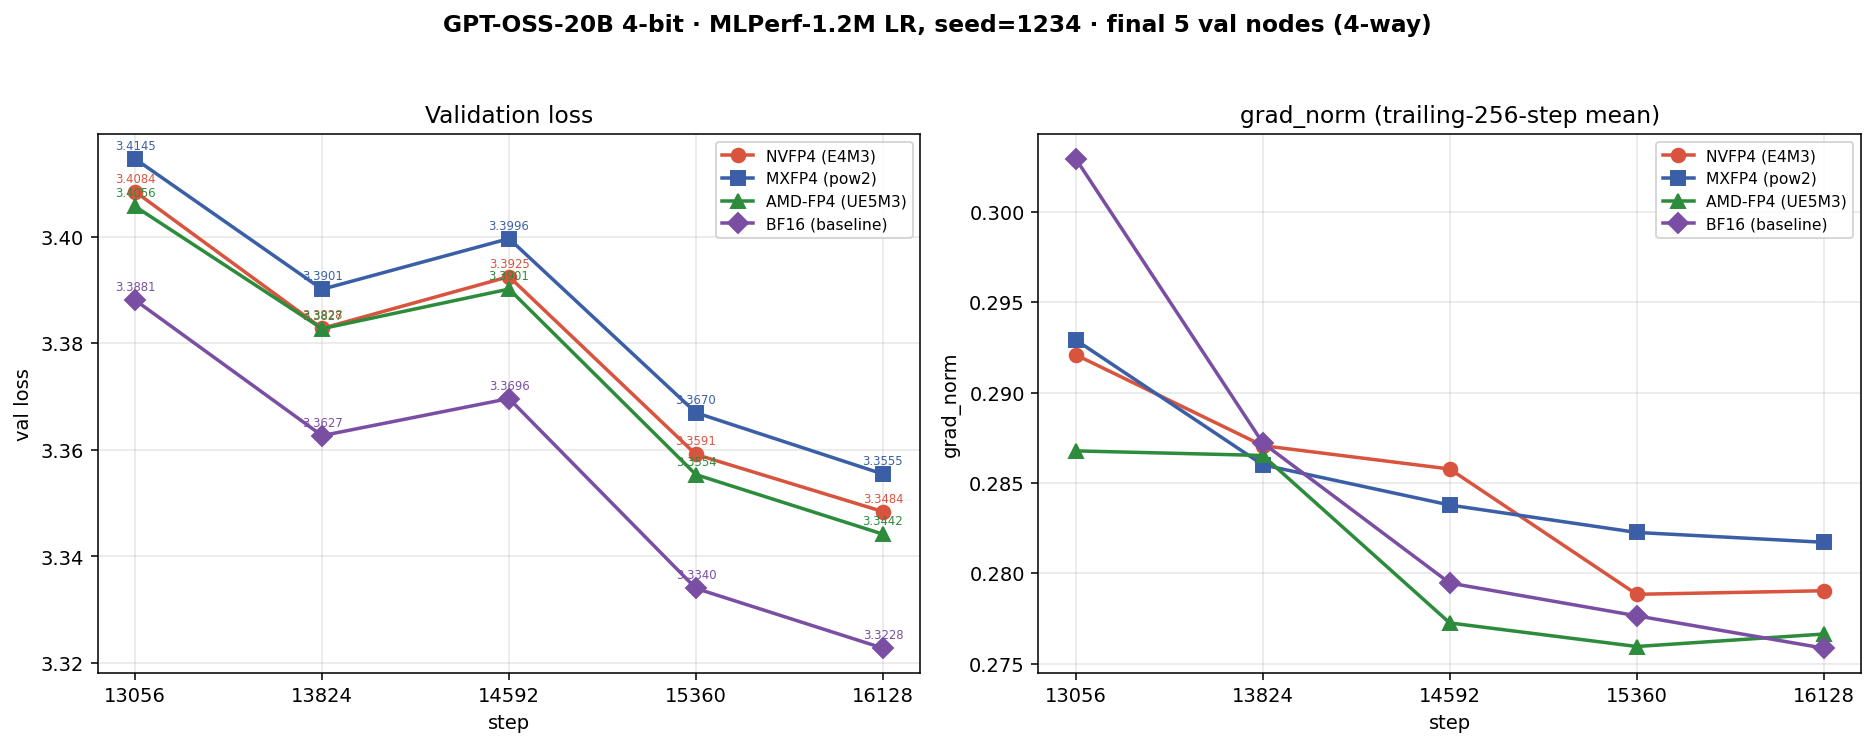
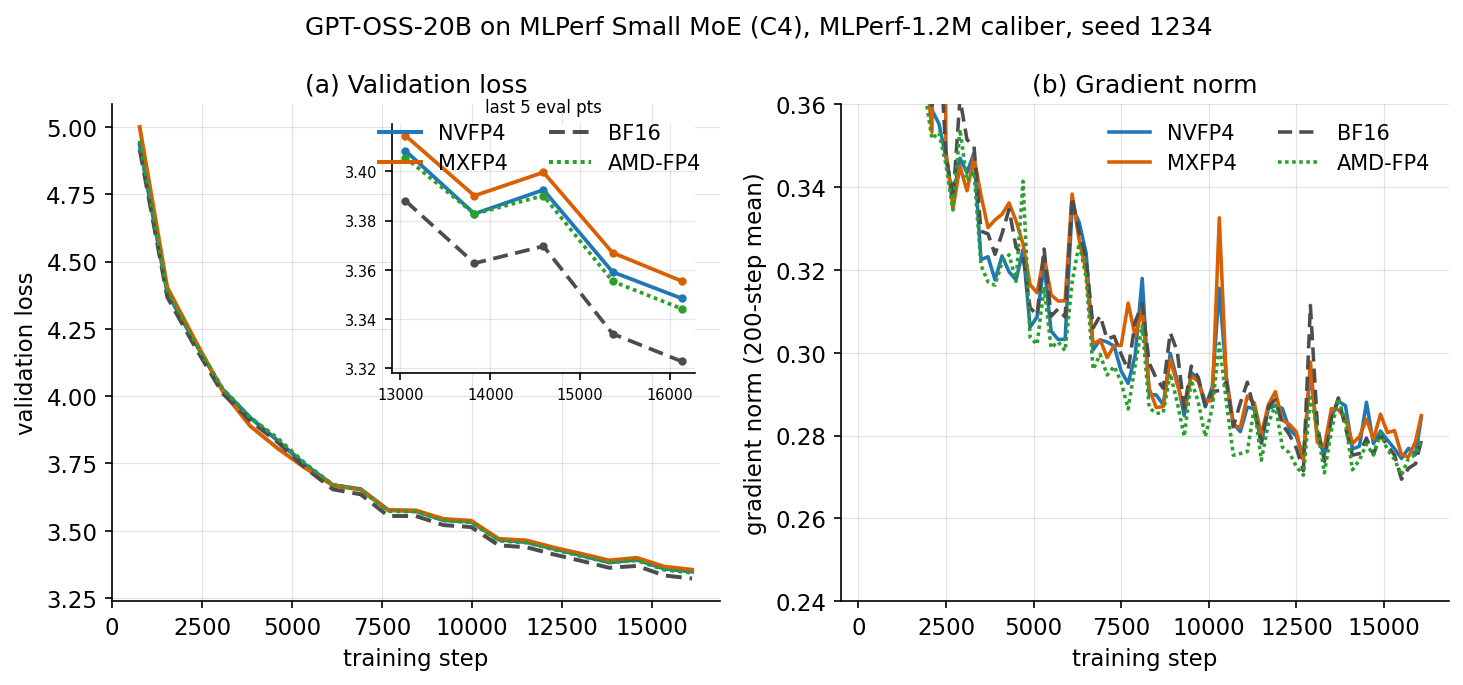
doc: refine nvfp4 report (redraw figures, align amd-fp4, redact internal specs)

diff --git a/tech_report/NVFP4/report.md b/tech_report/NVFP4/report.md
@@ -6,7 +6,7 @@
 
 ## Abstract
 
-Training large language models in 4-bit floating point promises large memory and compute savings, but the choice of FP4 microscaling format materially affects accuracy. We present an open-source training recipe ([ALTO](https://github.com/AMD-AGI/ALTO)) for **GPT-OSS-20B**—a 20-billion-parameter mixture-of-experts (MoE) model—on the **MLPerf Small MoE** benchmark under the **NVFP4** microscaling format. NVFP4 encodes values as E2M1 with a **two-level scale**: a fine-grained E4M3 scale per 16-element block, normalized by a per-tensor FP32 outer scale. Relative to MXFP4 (32-element blocks with a power-of-two UE8M0 scale), the finer block size and the higher-resolution two-level scale reduce quantization error. Our recipe composes hybrid 1D/2D block quantization, randomized Hadamard transforms (RHT), and stochastic rounding (SR) from [arXiv:2509.25149] with an optional weight de-oscillation scheme from TetraJet-v2 [arXiv:2510.27527]. A central engineering contribution is diagnosing and fixing a **per-tensor-scale (PTS) quantization-spec bug** whose scale floor caused NVFP4 gradient norms to explode by 100–1000× on multi-layer MoE training; the fix restores BF16-level gradient stability. On C4 validation with global batch size 16, NVFP4 reaches a validation loss of **3.3459 ± 0.0024** (3 seeds) at the 16,128-step slice, within **0.0195** of the BF16 baseline (**3.3264 ± 0.0031**) and consistently below MXFP4 (**3.3548 ± 0.0016**) on every seed. We report operator-level SNR against BF16 under both a synthetic injected-outlier protocol and a real-activation protocol, and we characterize the already-merged AMD-FP4 (UE5M3 inner scale) variant. All experiments use fake-quantized NVFP4 kernels; because current AMD hardware has no native NVFP4 MatrixCore path, execution is quantize–dequantize (QDQ) emulation and wall-clock speed is not optimized.
+Training large language models in 4-bit floating point promises large memory and compute savings, but the choice of FP4 microscaling format materially affects accuracy. We present an open-source training recipe ([ALTO](https://github.com/AMD-AGI/ALTO)) for **GPT-OSS-20B**—a 20-billion-parameter mixture-of-experts (MoE) model—on the **MLPerf Small MoE** benchmark under the **NVFP4** microscaling format. NVFP4 encodes values as E2M1 with a **two-level scale**: a fine-grained E4M3 scale per 16-element block, normalized by a per-tensor FP32 outer scale. Relative to MXFP4 (32-element blocks with a power-of-two UE8M0 scale), the finer block size and the higher-resolution two-level scale reduce quantization error. Our recipe composes hybrid 1D/2D block quantization, randomized Hadamard transforms (RHT), and stochastic rounding (SR) from [arXiv:2509.25149] with an optional weight de-oscillation scheme from TetraJet-v2 [arXiv:2510.27527]. A central engineering contribution is diagnosing and fixing a **per-tensor-scale (PTS) quantization-spec bug** whose scale floor caused NVFP4 gradient norms to explode by 100–1000× on multi-layer MoE training; the fix restores BF16-level gradient stability. On C4 validation with global batch size 16, NVFP4 reaches a validation loss of **3.3459 ± 0.0024** (3 seeds) at the 16,128-step slice, within **0.0195** of the BF16 baseline (**3.3264 ± 0.0031**) and consistently below MXFP4 (**3.3548 ± 0.0016**) on every seed. We report operator-level SNR against BF16 under both a synthetic injected-outlier protocol and a real-activation protocol, and we characterize the already-merged AMD-FP4 (UE5M3 inner scale) variant. All experiments use fake-quantized NVFP4 kernels; because the current native FP4 GEMM path does not support NVFP4's continuous scales, execution is quantize–dequantize (QDQ) emulation and wall-clock speed is not optimized.
 
 ---
 
@@ -14,14 +14,14 @@ Training large language models in 4-bit floating point promises large memory and
 
 Low-precision training has progressed from FP16 and BF16 to FP8 and, recently, 4-bit floating-point formats. Two 4-bit microscaling families are now prominent: the Open Compute Project (OCP) **MXFP4** format (32-element blocks, power-of-two UE8M0 block scale) and NVIDIA's **NVFP4** format (16-element blocks, an E4M3 block scale normalized by a per-tensor FP32 outer scale). Both encode elements as E2M1 (one sign, two exponent, one mantissa bit; magnitudes in $\{0,0.5,1,1.5,2,3,4,6\}$). For sparse MoE models such as GPT-OSS-20B, where expert matrices dominate compute and memory, 4-bit training could unlock disproportionate efficiency gains.
 
-The two formats trade off differently. MXFP4's UE8M0 scale is a pure power of two: cheap, hardware-friendly on CDNA4 (a native scaled MatrixCore GEMM exists), but coarse. NVFP4's two-level scale carries mantissa bits (E4M3) and a continuous per-tensor normalizer, giving finer resolution and better outlier absorption—at the cost that current AMD MatrixCore FP4 instructions honor only a power-of-two (biased-exponent) scale operand, so NVFP4 cannot use the native GEMM and must run as software QDQ emulation.
+The two formats trade off differently. MXFP4's UE8M0 scale is a pure power of two: cheap and directly consumable by a native power-of-two-scaled FP4 GEMM, but coarse. NVFP4's two-level scale carries mantissa bits (E4M3) and a continuous per-tensor normalizer, giving finer resolution and better outlier absorption—at the cost that the current native FP4 GEMM path supports only power-of-two scales, so NVFP4 cannot use it and must run as software QDQ emulation.
 
 | Property | MXFP4 | NVFP4 |
 |---|---|---|
 | Inner block size | 32 | **16** (finer) |
 | Inner (block) scale | E8M0 power-of-two (uint8) | **E4M3** (max 448), stored in FP32 |
 | Outer scale | none | **per-tensor FP32** (two-level scaling) |
-| CDNA4 native MatrixCore GEMM | yes | **no** — software QDQ emulation |
+| Native FP4 GEMM support | yes | **no** — software QDQ emulation |
 | Dominant error | resolution | resolution + dynamic range |
 
 This report describes ALTO's methodology for NVFP4 training on the MLPerf Small MoE task. Hybrid 1D/2D block quantization, RHT, and SR are adopted from [arXiv:2509.25149]; weight de-oscillation is adapted from TetraJet-v2 [arXiv:2510.27527]. Our contributions are: (i) a composable NVFP4 training recipe for MX-style MoE models implemented in a unified kernel and modifier stack; (ii) the diagnosis and fix of a PTS scale-floor bug that otherwise makes multi-layer NVFP4 MoE training diverge (Section 3.5); and (iii) a systematic NVFP4-vs-MXFP4 comparison at the operator level (synthetic and real data) and end-to-end (multi-seed, MLPerf-aligned). ALTO also supports replacing the E4M3 inner scale with the wider-range UE5M3 grid—the already-merged **AMD-FP4** variant—which we report as a reference point (Section 4.1). We state explicitly where the implementation remains a research prototype rather than a performance-optimized production system.
@@ -90,7 +90,7 @@ $$
 
 where $6$ is the largest E2M1 magnitude and $\varepsilon_{\mathrm{E4M3}}$ is the smallest E4M3 normal. The outer scale is floored at $10^{-30}$ purely as a divide-by-zero guard (Section 3.5 explains why this floor, not the E4M3 floor, is the correct one).
 
-As illustrated in Figure 1, each linear layer has three underlying GEMMs: a forward GEMM producing $\mathbf{O}$, and backward GEMMs producing $\mathrm{d}\mathbf{X}$ and $\mathrm{d}\mathbf{W}$. Because current AMD MatrixCore FP4 instructions accept only power-of-two scale operands, NVFP4 cannot use them; ALTO performs **fake quantization**—operands are quantized to NVFP4 and immediately dequantized to BF16 before a standard high-precision GEMM (`BF16 → quant → FP4 → dequant → BF16 → GEMM`)—faithfully reproducing FP4 numerical error without realizing memory-bandwidth savings (Section 6).
+As illustrated in Figure 1, each linear layer has three underlying GEMMs: a forward GEMM producing $\mathbf{O}$, and backward GEMMs producing $\mathrm{d}\mathbf{X}$ and $\mathrm{d}\mathbf{W}$. Because the current native FP4 GEMM path accepts only power-of-two scales, NVFP4 cannot use it; ALTO performs **fake quantization**—operands are quantized to NVFP4 and immediately dequantized to BF16 before a standard high-precision GEMM (`BF16 → quant → FP4 → dequant → BF16 → GEMM`)—faithfully reproducing FP4 numerical error without realizing memory-bandwidth savings (Section 6).
 
 **Figure 1.** NVFP4 two-level-scale compute flow across the three GEMMs (forward + backward).
 
@@ -138,7 +138,7 @@ Master weights near a quantization bin boundary can oscillate—$Q(w)$ flips bet
 
 ### 4.1 AMD-FP4 (UE5M3 Inner Scale)
 
-ALTO's NVFP4 kernel supports swapping the E4M3 inner scale for **UE5M3** (unsigned E5M3, max normal 114688, ~256× wider dynamic range), selected by `scheme: "amdfp4"`; every other recipe field is identical and the two schemes share 100% of the kernel and autograd code. The wider inner-scale range directly mitigates NVFP4's dynamic-range pressure in the *plain* (no-outer-scale) operator regime; once the two-level outer scale is enabled (the production default), AMD-FP4 and NVFP4 converge in operator SNR and end-to-end loss (AMD-FP4 is marginally ahead; Sections 5.1–5.2). We report AMD-FP4 as a merged variant and reference point, not as a separate main line.
+AMD-FP4 is a peer FP4 recipe (merged into ALTO's `main`) that reuses NVFP4's block-quant and GEMM kernels but replaces the E4M3 inner-block scale with **UE5M3** (unsigned E5M3, max normal 114688, ~256× wider dynamic range). It is selected by `scheme: "amdfp4"`; the scheme alone determines the inner-scale grid (NVFP4 → E4M3, AMD-FP4 → UE5M3), and every other recipe field is identical. The wider inner-scale range directly mitigates NVFP4's dynamic-range pressure in the *plain* (no-outer-scale) operator regime; once the two-level outer scale is enabled (the production default), AMD-FP4 and NVFP4 converge in operator SNR and end-to-end loss (AMD-FP4 is marginally ahead; Sections 5.1–5.2). We report AMD-FP4 as a merged variant and reference point, not as a separate main line.
 
 ### 4.2 Exploratory Directions (Not Released)
 
@@ -218,9 +218,9 @@ At the 16k-step slice the learning rate has not decayed, so none of the formats 
 
 ### 5.3 Weight De-Oscillation Effect
 
-Figure 4 shows the end-to-end effect of the de-oscillation hook at MLPerf caliber, demonstrated on the AMD-FP4 variant (on vs off). De-oscillation acts as a late-training stabilizer consistent with its design; a native-NVFP4 end-to-end on/off remains to be run (Section 6). The exploratory directions of Section 4.2 (outer-block, 4/6) are essentially neutral on validation loss at this scale.
+Figure 4 shows the end-to-end effect of the de-oscillation hook at MLPerf caliber, demonstrated on the AMD-FP4 variant (on vs off, with BF16 for reference). De-oscillation (`deosc_step`/`deosc_period`/`deosc_ratio` = 2000/200/4.0) is a strong late-training stabilizer: it lowers the AMD-FP4 endpoint from 3.3442 to **3.3241** at 16,128 steps, shrinking the gap to the BF16 baseline (3.3228) from +0.0214 to **+0.0013**—essentially matching full precision. A native-NVFP4 on/off pair at this exact caliber remains to be run (Section 6). The exploratory directions of Section 4.2 (outer-block, 4/6) are essentially neutral on validation loss at this scale.
 
-**Figure 4.** De-oscillation on vs off (AMD-FP4 variant, MLPerf caliber, last five eval points).
+**Figure 4.** De-oscillation on the AMD-FP4 variant (on vs off, BF16 reference); MLPerf-1.2M caliber, last five eval points.
 
 <p align="center">
   <img src="./figures/amdfp4_deosc_vs_base_val_loss_final_last5.png" alt="De-oscillation on vs off, last 5 eval points" style="width:50%;height:auto;" />
@@ -243,7 +243,7 @@ NVFP4 runs at roughly 1/1.8 of BF16 throughput and ~20% below MXFP4, because the
 
 ## 6. Limitations
 
-**Fake-quantized execution with no native NVFP4 GEMM.** Because CDNA4 FP4 MatrixCore instructions honor only a power-of-two scale operand, NVFP4 cannot use them and runs entirely as QDQ emulation with BF16 GEMMs—a stricter constraint than MXFP4, which does have a native path. All accuracy results characterize the algorithmic robustness of the format, not the behavior or speed of a fused FP4 hardware stack.
+**Fake-quantized execution with no native NVFP4 GEMM.** The current native FP4 GEMM path supports only power-of-two scales, so NVFP4—whose scales are continuous—cannot use it and runs entirely as QDQ emulation with BF16 GEMMs, a stricter constraint than MXFP4, which does have a native path. All accuracy results characterize the algorithmic robustness of the format, not the behavior or speed of a fused FP4 hardware stack.
 
 **16k-step slice, limited seeds.** Results are the first 16,128 steps of the 1.2M-step schedule; the learning rate has not decayed, so absolute losses are not converged values and the 3.34 MLPerf target is not expected to be reached at this slice. Multi-seed coverage is three seeds for BF16/NVFP4/MXFP4 and two for AMD-FP4.
 
@@ -253,7 +253,7 @@ NVFP4 runs at roughly 1/1.8 of BF16 throughput and ~20% below MXFP4, because the
 
 ## 7. Conclusion
 
-We described an ALTO recipe for training GPT-OSS-20B under NVFP4 on the MLPerf Small MoE benchmark. NVFP4's two-level microscaling—an E4M3 scale per 16-element block, normalized by a per-tensor FP32 outer scale—combined with hybrid 1D/2D blocking, RHT, and SR, trains stably once the PTS scale-floor spec bug is fixed, and converges closer to BF16 than MXFP4: at the 16,128-step MLPerf-aligned slice, NVFP4 reaches 3.3459 ± 0.0024 versus 3.3264 ± 0.0031 for BF16 (+0.0195) and beats MXFP4 (3.3548 ± 0.0016) on every seed. Operator-level SNR, on both synthetic injected-outlier and real-activation data, attributes NVFP4's advantage to its finer block and higher-resolution two-level scale, most decisively on weight gradients. The already-merged AMD-FP4 (UE5M3) variant matches NVFP4 once the outer scale is present. Future work will fuse quantization and transforms into a single kernel pipeline, enable FP4 dispatch under expert parallelism, target native FP4 hardware, and pursue an audited MLPerf Training submission.
+We described an ALTO recipe for training GPT-OSS-20B under NVFP4 on the MLPerf Small MoE benchmark. NVFP4's two-level microscaling—an E4M3 scale per 16-element block, normalized by a per-tensor FP32 outer scale—combined with hybrid 1D/2D blocking, RHT, and SR, trains stably once the PTS scale-floor spec bug is fixed, and converges closer to BF16 than MXFP4: at the 16,128-step MLPerf-aligned slice, NVFP4 reaches 3.3459 ± 0.0024 versus 3.3264 ± 0.0031 for BF16 (+0.0195) and beats MXFP4 (3.3548 ± 0.0016) on every seed. Operator-level SNR, on both synthetic injected-outlier and real-activation data, attributes NVFP4's advantage to its finer block and higher-resolution two-level scale, most decisively on weight gradients. The already-merged AMD-FP4 (UE5M3) variant matches NVFP4 once the outer scale is present.
 
 ---
 
@@ -269,9 +269,7 @@ We described an ALTO recipe for training GPT-OSS-20B under NVFP4 on the MLPerf S
 
 [5] MLCommons. [GPT-OSS-20B Pretraining Benchmark](https://github.com/mlcommons/training/tree/master/small_llm_moe_pretraining/primus).
 
-[6] AMD. "UE5M3 / E4M3 scale format" (GFXIPARCH-2067 §19.10), internal hardware specification.
-
-[7] "Four Over Six: adaptive block scaling for FP4." *arXiv preprint [arXiv:2512.02010](https://arxiv.org/abs/2512.02010)*, 2025.
+[6] "Four Over Six: adaptive block scaling for FP4." *arXiv preprint [arXiv:2512.02010](https://arxiv.org/abs/2512.02010)*, 2025.
 
 ---
 
